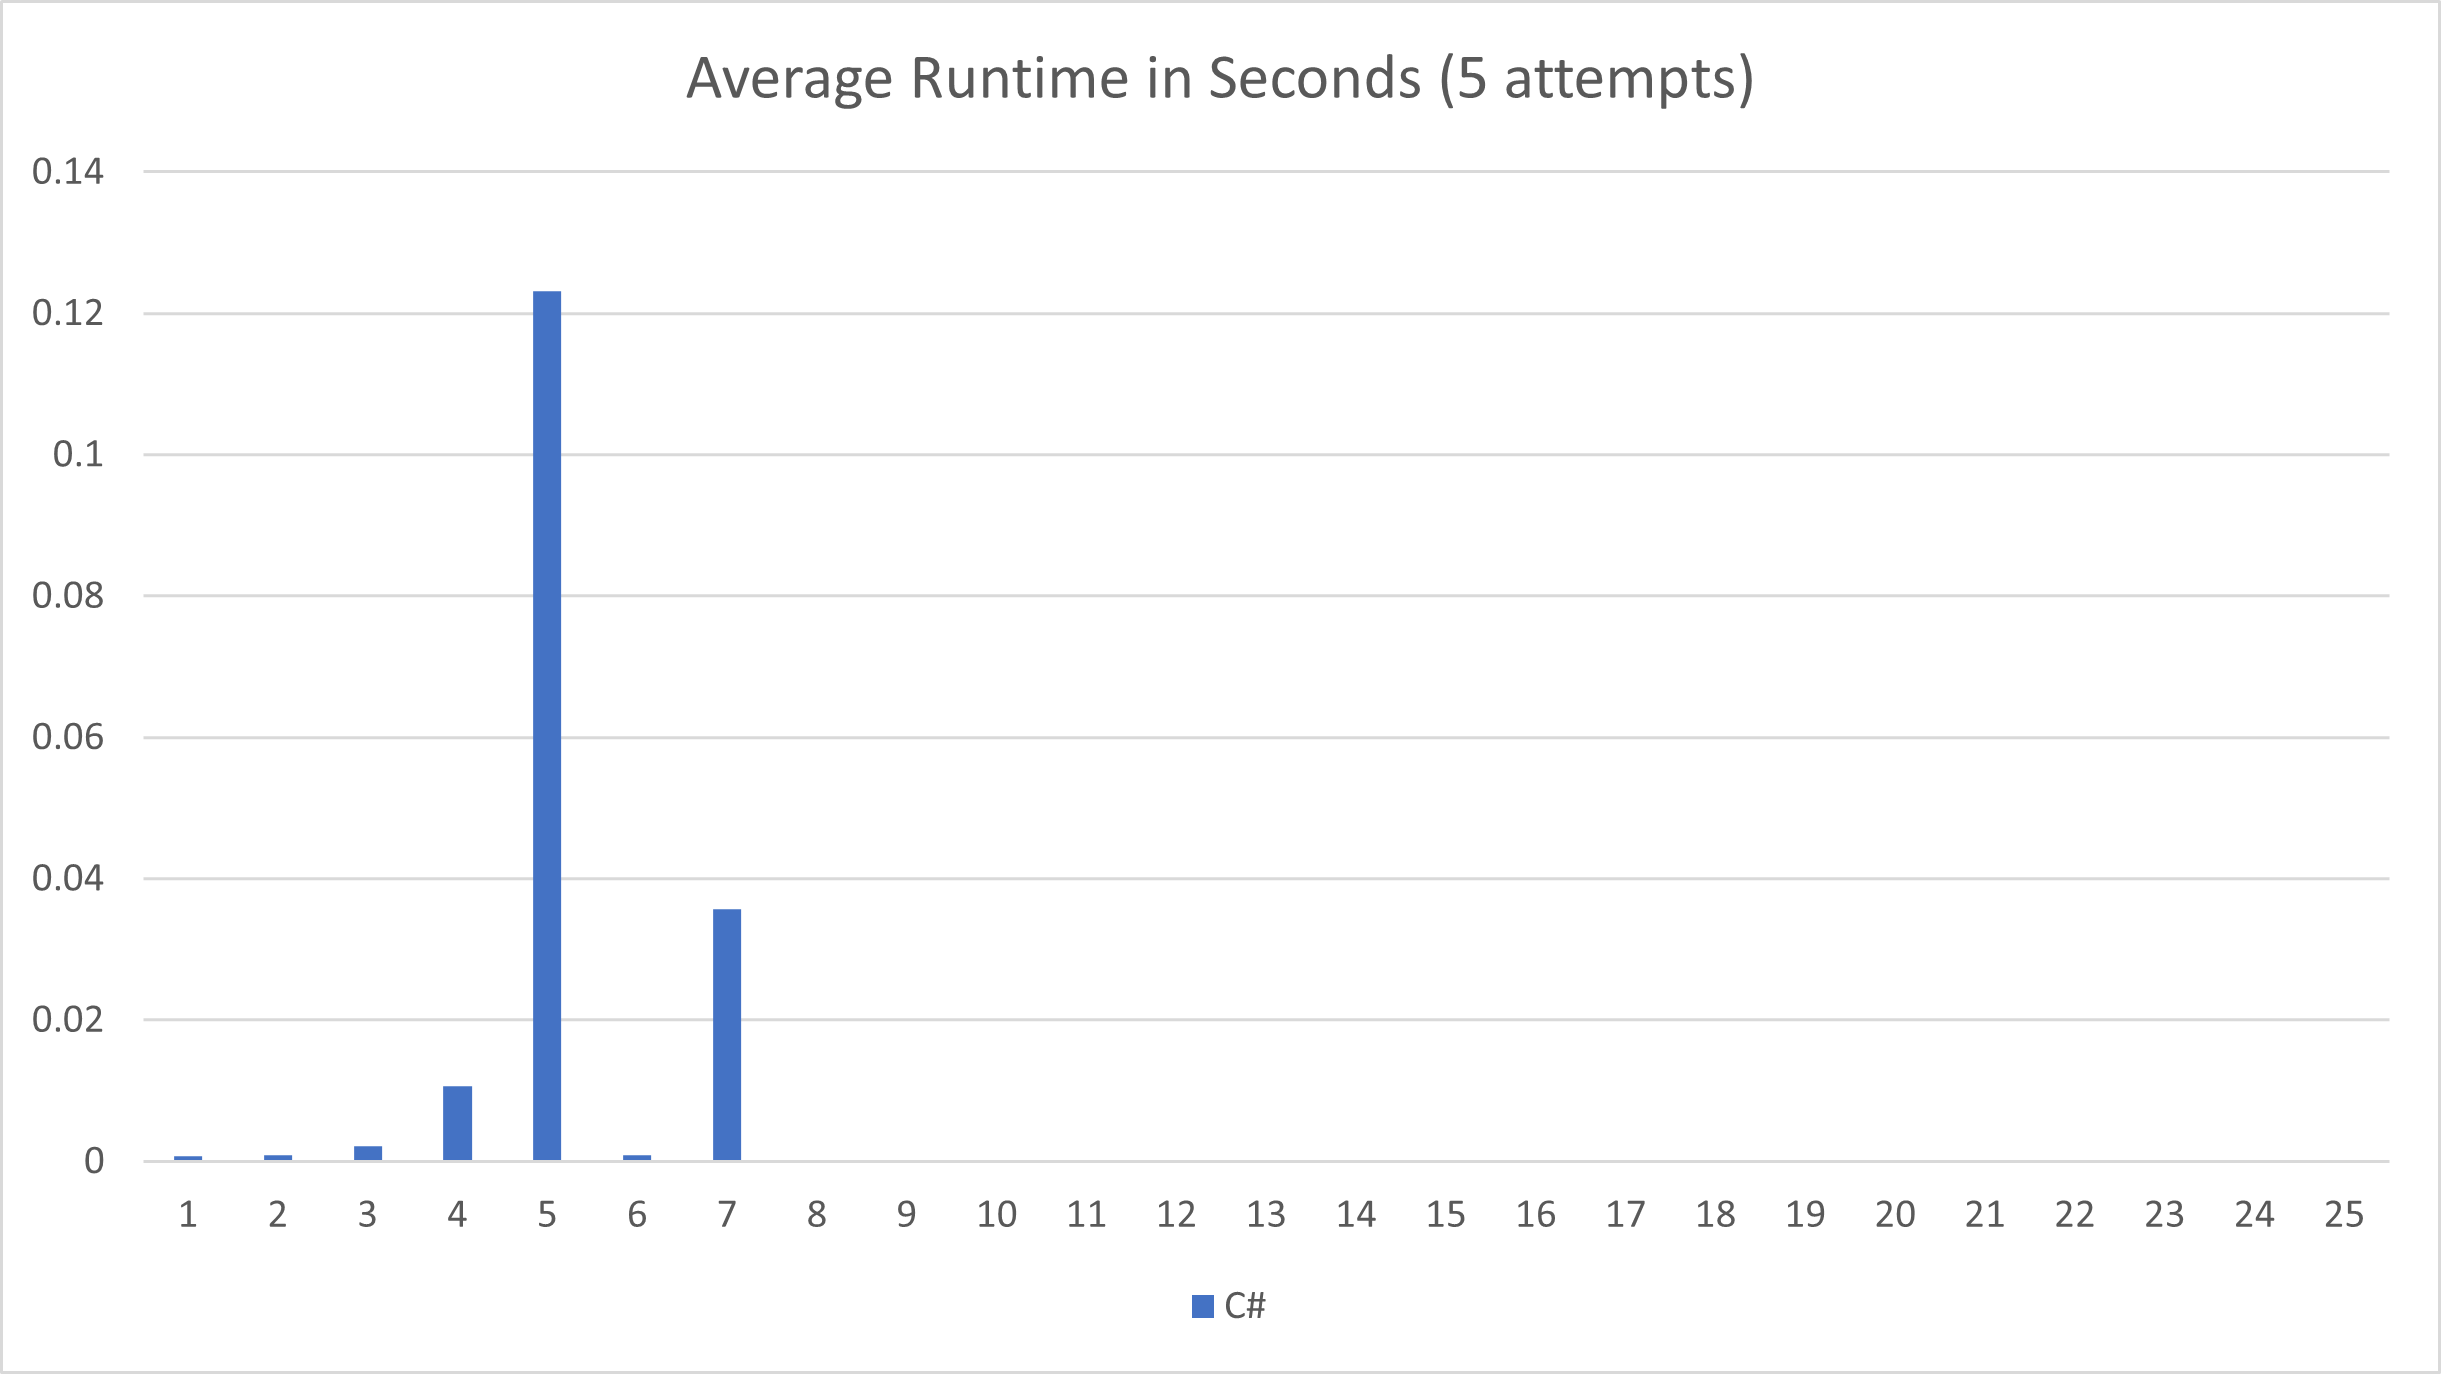
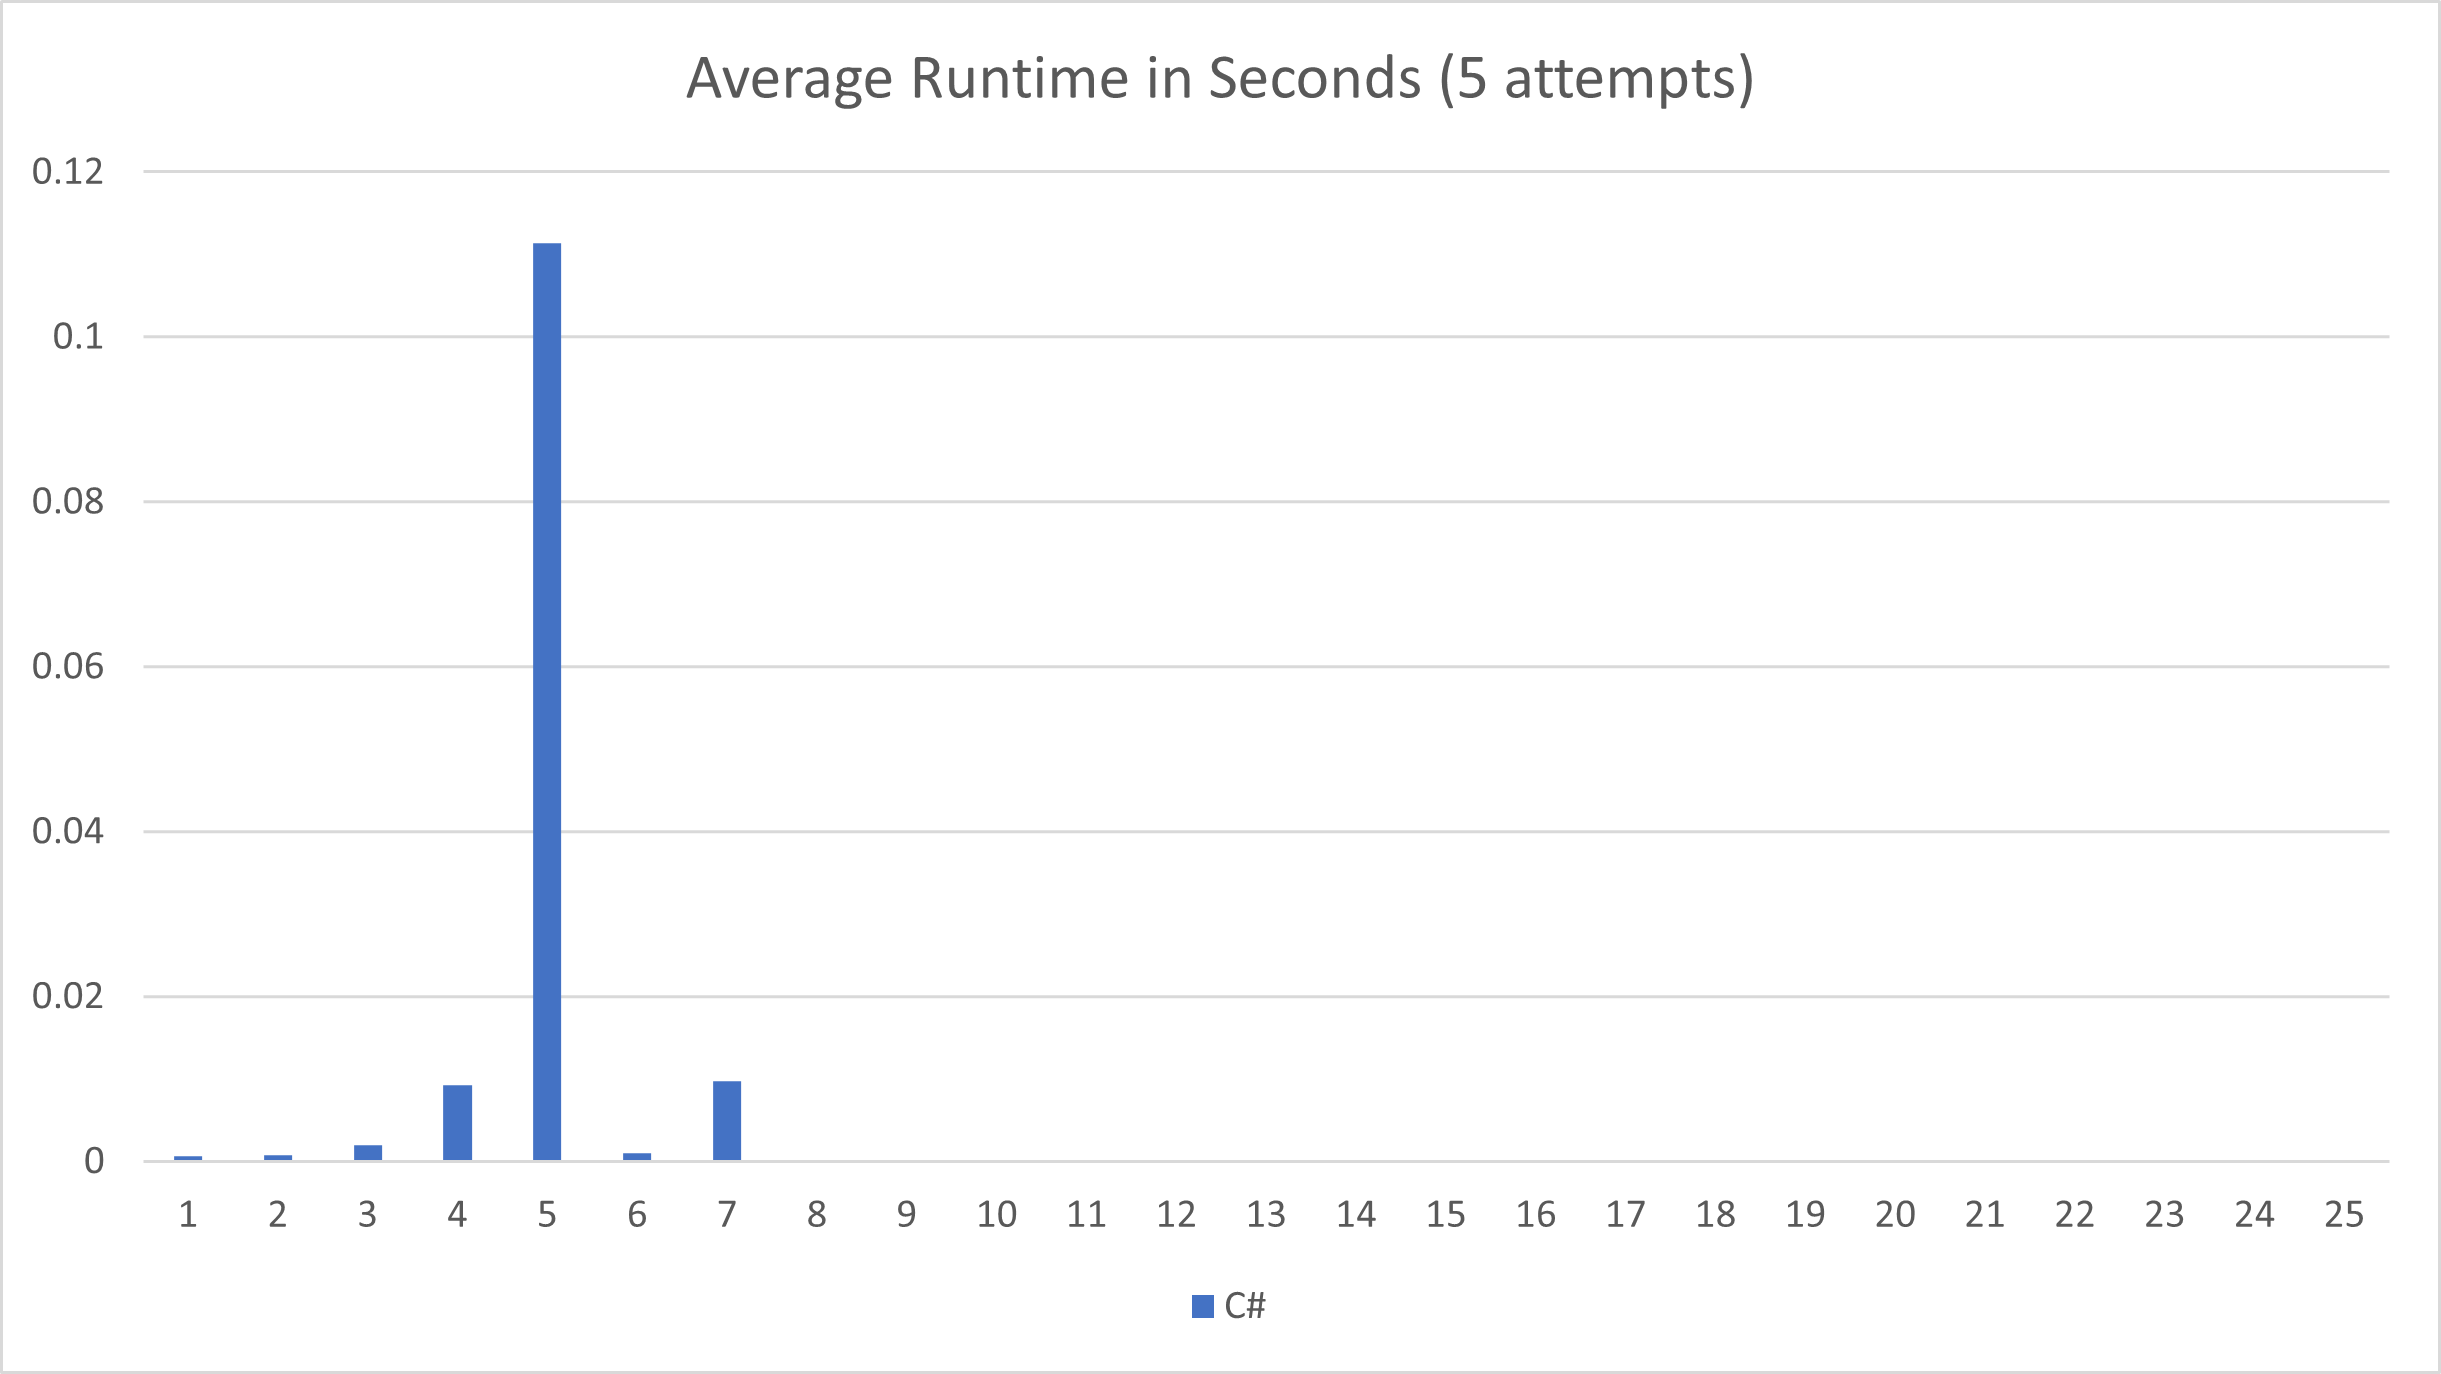
Optimize day 7 with short circuiting

diff --git a/csharp/AdventOfCode2021/Solvers/Day07Solver.cs b/csharp/AdventOfCode2021/Solvers/Day07Solver.cs
@@ -13,43 +13,56 @@ namespace AdventOfCode2021.Solvers
         public void Solve()
         {
             Console.WriteLine(Name);
-            var lines = Input.GetInputFromFile(InputFile).Split(',').Select(long.Parse).ToList();
+            var lines = Input.GetInputFromFile(InputFile)
+                .Split(',')
+                .Select(int.Parse)
+                .OrderBy(x => x)
+                .ToList();
 
             Console.WriteLine($"Output (part 1): {GetPart1Answer(lines)}");
             Console.WriteLine($"Output (part 2): {GetPart2Answer(lines)}");
         }
 
-        private static long GetPart1Answer(List<long> input)
+        private static int GetPart1Answer(List<int> input)
         {
-            var min = input.Sum();
-            foreach (var target in input) //lucky
+            var min = int.MaxValue;
+            var low = input.First();
+            var high = input.Last();
+            foreach (var target in Enumerable.Range(low, high-low))
             {
                 var newSum = input.Sum(i => Math.Abs(i - target));
-                if (newSum < min)
+                if (newSum > min)
                 {
-                    min = newSum;
+                    break;
                 }
+
+                min = newSum;
             }
 
             return min;
         }
 
-        private static long GetPart2Answer(List<long> input)
+        private static int GetPart2Answer(List<int> input)
         {
-            var min = long.MaxValue;
-            foreach (var target in Enumerable.Range((int)input.Min(), (int)input.Max() - (int)input.Min()))
+            var min = int.MaxValue;
+            var low = input.First();
+            var high = input.Last();
+            foreach (var target in Enumerable.Range(low, high-low))
             {
                 var newSum = input.Sum(i => Cost(i, target));
-                if (newSum < min)
+
+                if (newSum > min)
                 {
-                    min = newSum;
+                    break;
                 }
+             
+                min = newSum;
             }
 
             return min;
         }
 
-        private static long Cost(long from, long target)
+        private static int Cost(int from, int target)
         {
             var diff = Math.Abs(from - target);
             return diff * (diff + 1) / 2;
